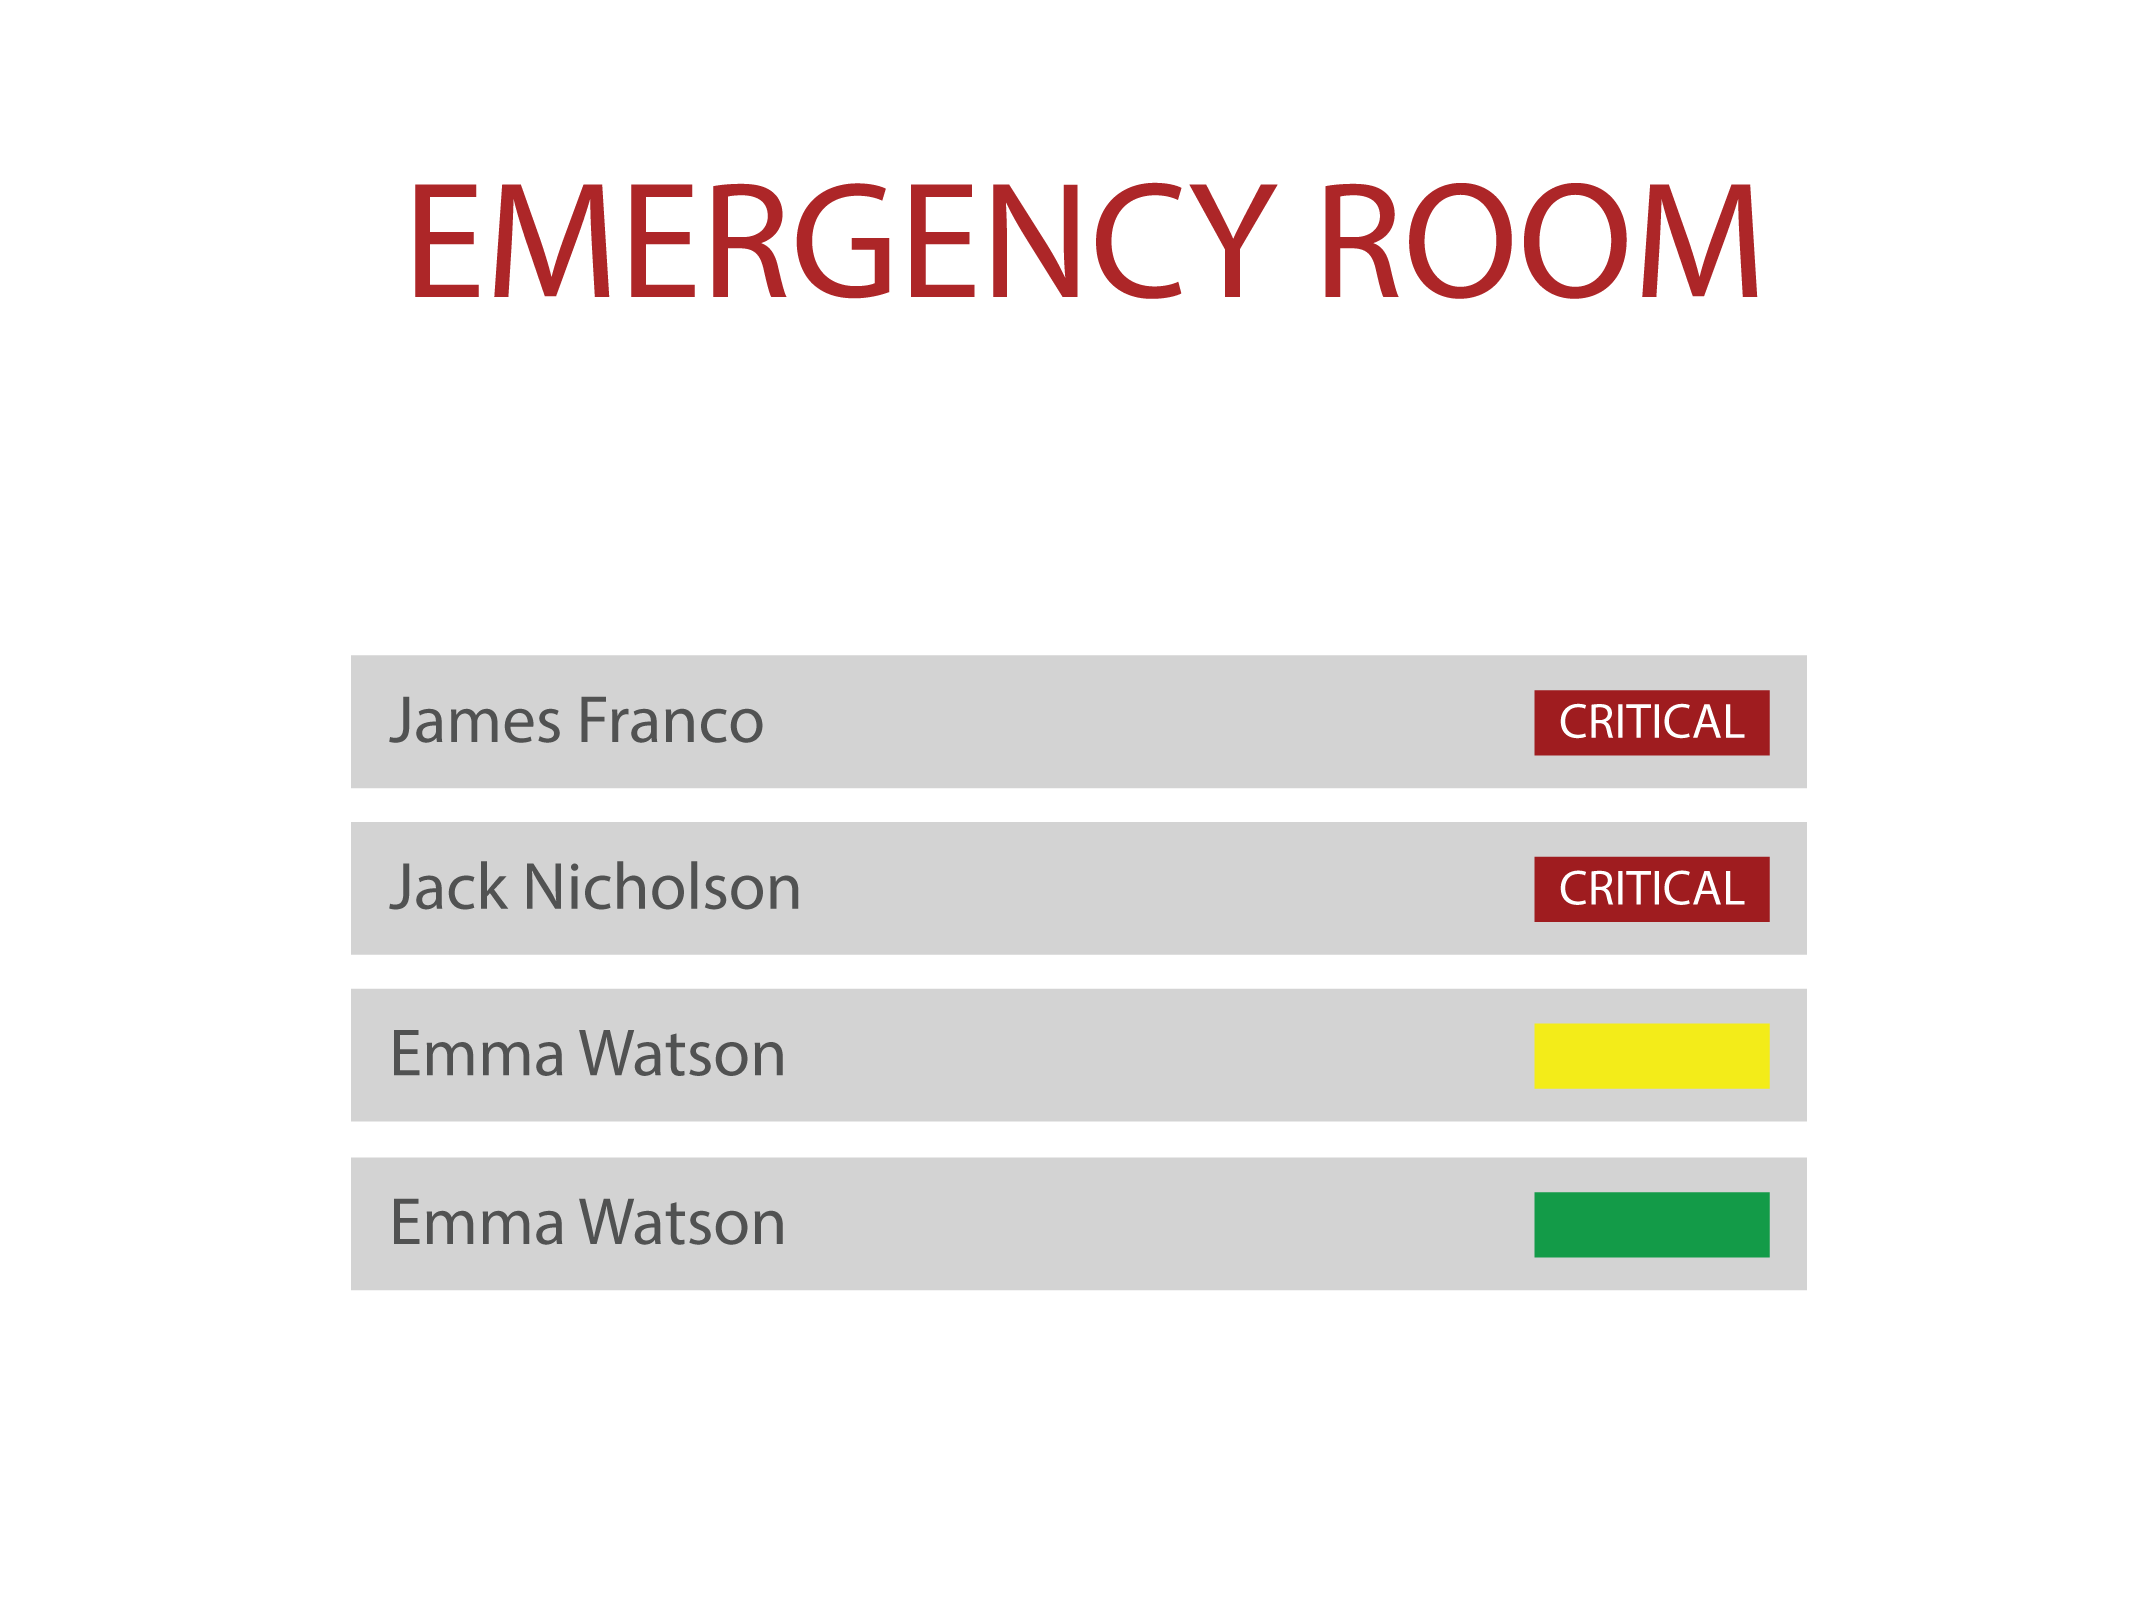
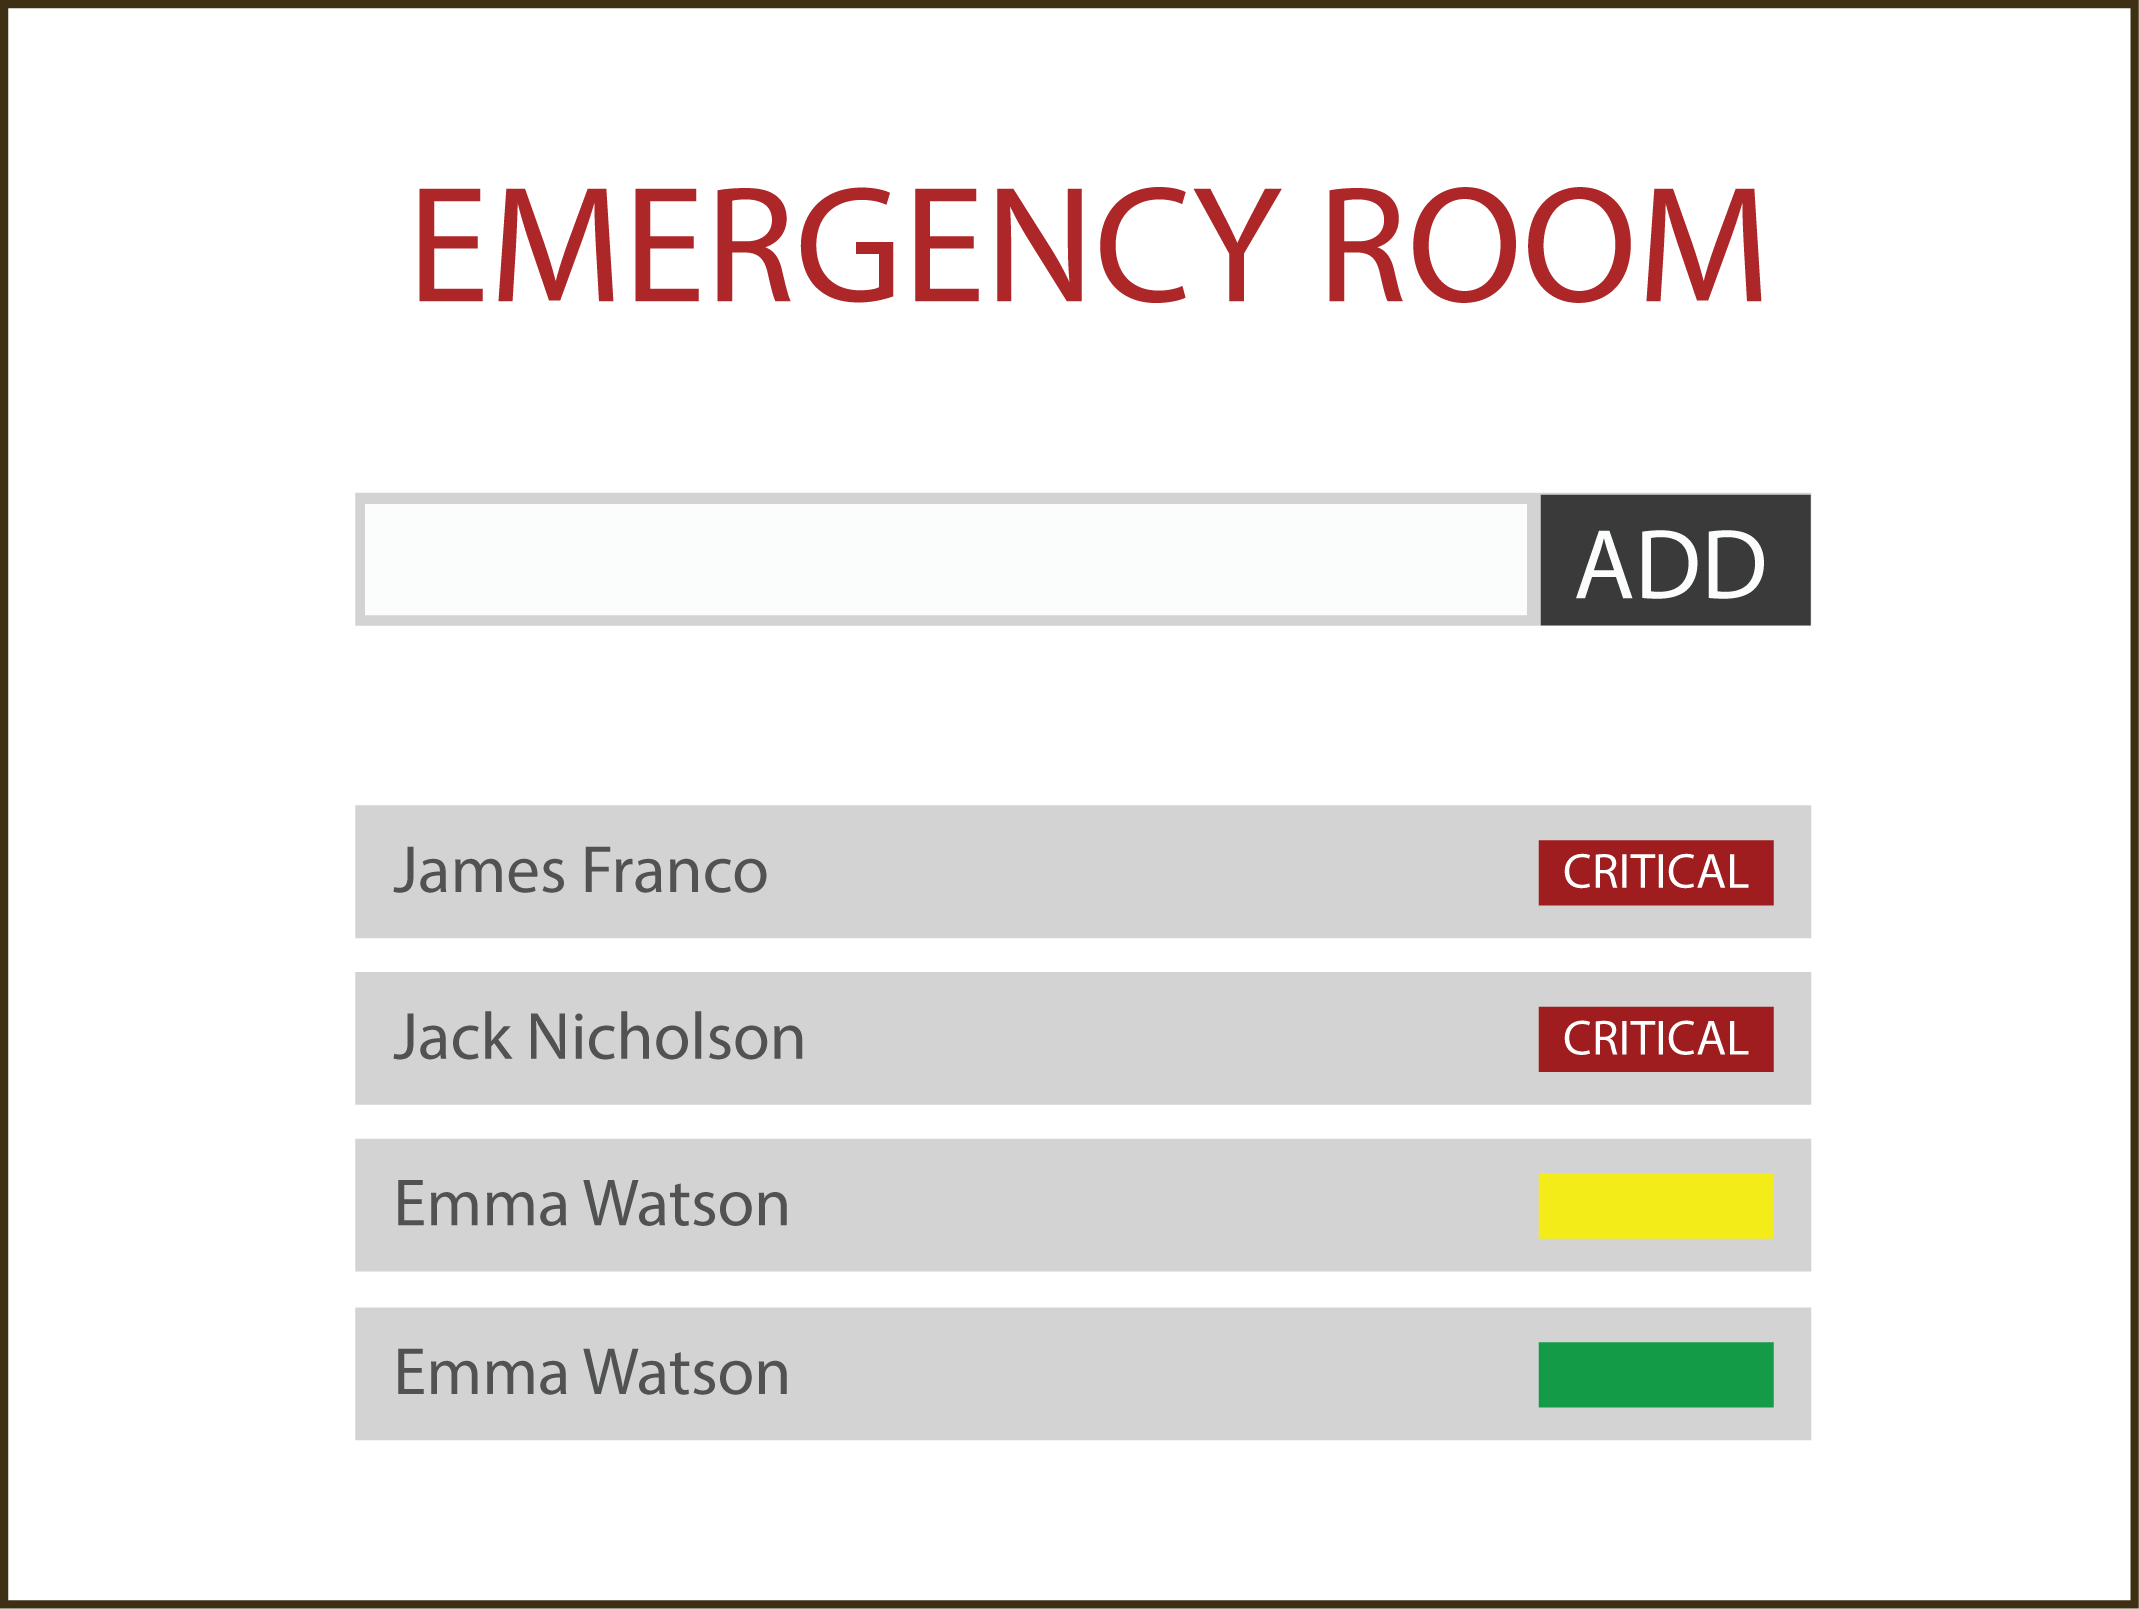
Add challenge info to README

diff --git a/README.md b/README.md
@@ -38,6 +38,21 @@ Here's a (extremely) simplified version of what a Web Application for an emergen
 
 ![Emergency Room](readme/emergency_room.png)
 
+Your first task is to build a static web page (using HTML and CSS) mirroring the picture above. You don't need to mirror the picture exactly as it is, but the structure must be the same.
+
+You can use CSS frameworks like Bootstrap, Foundation and similar.
+
+
+### Build a dynamic web application
+
+- Your second task is to build a dynamic web application that will serve the contents of the emergency room dinamically from a DataBase.
+
+- Additionally, implement the ability to add more patients using the text field you see on the page.
+
+You are free to choose any kind of technologies you're familiar with to achieve this task, be it **Ruby on Rails**, **Sinatra**, **ExpressJS**, **Django**, or any other.
+Also, use whatever DataBase you're used to, be it Relational such as **PostgreSQL** and **MySQL**, document based such as **MongoDB** or any other.
+
+> If you're unfamiliar with server-side web frameworks, use Javascript to implement the same functionality.
 
 Upload your work
 ----------------
